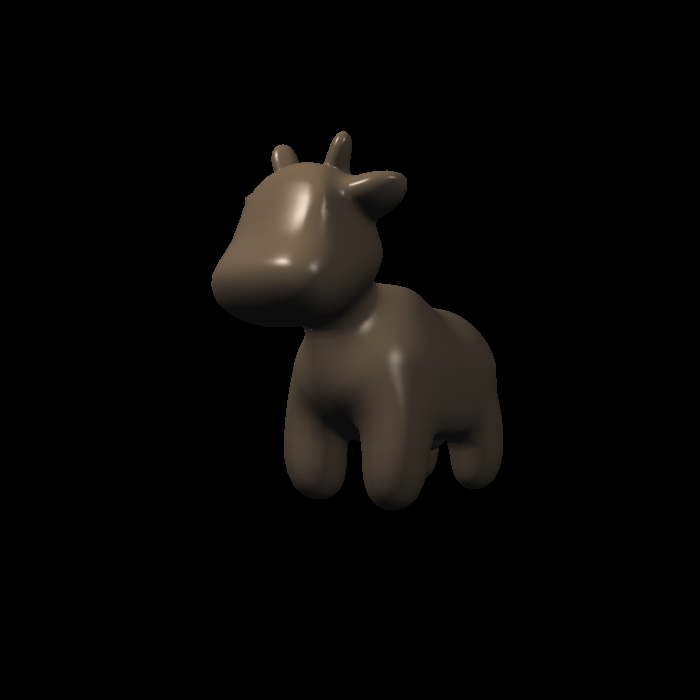
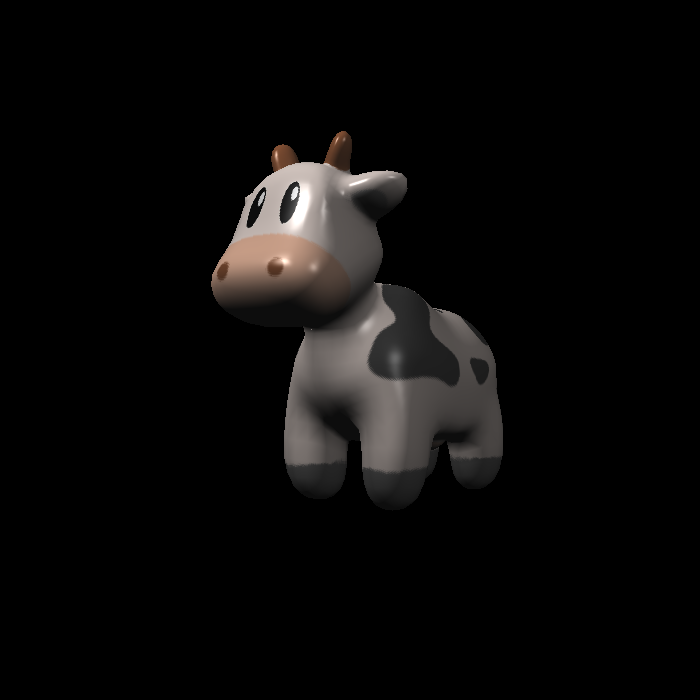
hw3

Changed region(s): [[0.3, 0.21, 0.72, 0.69], [0.48, 0.18, 0.51, 0.21]]

diff --git a/Assignment3/main.cpp b/Assignment3/main.cpp
@@ -108,6 +108,7 @@ Eigen::Vector3f texture_fragment_shader(const fragment_shader_payload& payload)
     if (payload.texture)
     {
         // TODO: Get the texture value at the texture coordinates of the current fragment
+		return_color = payload.texture->getColor(payload.tex_coords.x(), payload.tex_coords.y());
 
     }
     Eigen::Vector3f texture_color;
@@ -131,13 +132,20 @@ Eigen::Vector3f texture_fragment_shader(const fragment_shader_payload& payload)
     Eigen::Vector3f normal = payload.normal;
 
     Eigen::Vector3f result_color = {0, 0, 0};
-
     for (auto& light : lights)
     {
-        // TODO: For each light source in the code, calculate what the *ambient*, *diffuse*, and *specular* 
-        // components are. Then, accumulate that result on the *result_color* object.
+        // Lambertian (Diffuse) Term
+        float r = (light.position - point).norm();
+        Eigen::Vector3f l = (light.position - point).normalized();
+        result_color += kd.cwiseProduct(light.intensity / (r * r)) * std::max(0.f, normal.dot(l));
 
+        // Specular Term
+        Eigen::Vector3f v = (eye_pos - point).normalized();
+        Eigen::Vector3f h = (l + v).normalized();
+        result_color += ks.cwiseProduct(light.intensity / (r * r)) * std::pow(std::max(0.f, normal.dot(h)), p);
     }
+    // Ambient Term
+    result_color += ka.cwiseProduct(amb_light_intensity);
 
     return result_color * 255.f;
 }
@@ -148,7 +156,7 @@ Eigen::Vector3f phong_fragment_shader(const fragment_shader_payload& payload)
     Eigen::Vector3f kd = payload.color;
     Eigen::Vector3f ks = Eigen::Vector3f(0.7937, 0.7937, 0.7937);
 
-    auto l1 = light{{20, 20, 20}, {500, 500, 500}};
+    auto l1 = light{{20, 20, 20}, {1000, 1000, 1000}};
     auto l2 = light{{-20, 20, 0}, {500, 500, 500}};
 
     std::vector<light> lights = {l1, l2};
@@ -170,12 +178,13 @@ Eigen::Vector3f phong_fragment_shader(const fragment_shader_payload& payload)
 		result_color += kd.cwiseProduct(light.intensity / (r * r)) * std::max(0.f, normal.dot(l));
 
         // Specular Term
-		Vector3f v = (eye_pos - point).normalized();
-		Vector3f h = (l + v).normalized();
+		Eigen::Vector3f v = (eye_pos - point).normalized();
+		Eigen::Vector3f h = (l + v).normalized();
         result_color += ks.cwiseProduct(light.intensity / (r * r)) * std::pow(std::max(0.f, normal.dot(h)), p);
     }
     // Ambient Term
     result_color += ka.cwiseProduct(amb_light_intensity);
+
 
     return result_color * 255.f;
 }
@@ -300,10 +309,10 @@ int main(int argc, const char** argv)
 
     rst::rasterizer r(700, 700);
 
-    auto texture_path = "hmap.jpg";
+    auto texture_path = "spot_texture.png";
     r.set_texture(Texture(obj_path + texture_path));
 
-    std::function<Eigen::Vector3f(fragment_shader_payload)> active_shader = phong_fragment_shader;
+    std::function<Eigen::Vector3f(fragment_shader_payload)> active_shader = bump_fragment_shader;
 
     if (argc >= 2)
     {

diff --git a/Assignment3/rasterizer.cpp b/Assignment3/rasterizer.cpp
@@ -285,10 +285,10 @@ void rst::rasterizer::rasterize_triangle(const Triangle& t, const std::array<Eig
 
                 if (z_interpolated < depth_buf[get_index(x, y)]) {
                     depth_buf[get_index(x, y)] = z_interpolated;
-					auto interpolated_color = interpolate(alpha, beta, gamma, t.color[0], t.color[1], t.color[2], w_reciprocal);
-					auto interpolated_normal = interpolate(alpha, beta, gamma, t.normal[0], t.normal[1], t.normal[2], w_reciprocal);
-					auto interpolated_texcoords = interpolate(alpha, beta, gamma, t.tex_coords[0], t.tex_coords[1], t.tex_coords[2], w_reciprocal);
-                    auto interpolated_shadingcoords = interpolate(alpha, beta, gamma, view_pos[0], view_pos[1], view_pos[2], w_reciprocal);
+					auto interpolated_color = interpolate(alpha / v[0].w(), beta / v[1].w(), gamma / v[2].w(), t.color[0], t.color[1], t.color[2], 1.0f) * w_reciprocal;
+					auto interpolated_normal = interpolate(alpha / v[0].w(), beta / v[1].w(), gamma / v[2].w(), t.normal[0], t.normal[1], t.normal[2], 1.0f) * w_reciprocal;
+					auto interpolated_texcoords = interpolate(alpha / v[0].w(), beta / v[1].w(), gamma / v[2].w(), t.tex_coords[0], t.tex_coords[1], t.tex_coords[2], 1.0f) * w_reciprocal;
+                    auto interpolated_shadingcoords = interpolate(alpha / v[0].w(), beta / v[1].w(), gamma / v[2].w(), view_pos[0], view_pos[1], view_pos[2], 1.0f) * w_reciprocal;
 
                     fragment_shader_payload payload(interpolated_color, interpolated_normal.normalized(), interpolated_texcoords, texture ? &*texture : nullptr);
                     payload.view_pos = interpolated_shadingcoords;

diff --git a/Assignment3/Texture.hpp b/Assignment3/Texture.hpp
@@ -1,4 +1,4 @@
-//
+//
 // Created by LEI XU on 4/27/19.
 //
 
@@ -24,6 +24,8 @@ public:
 
     Eigen::Vector3f getColor(float u, float v)
     {
+        u = std::max(0.0f, std::min(1.0f, u));
+        v = std::max(0.0f, std::min(1.0f, v));
         auto u_img = u * width;
         auto v_img = (1 - v) * height;
         auto color = image_data.at<cv::Vec3b>(v_img, u_img);
